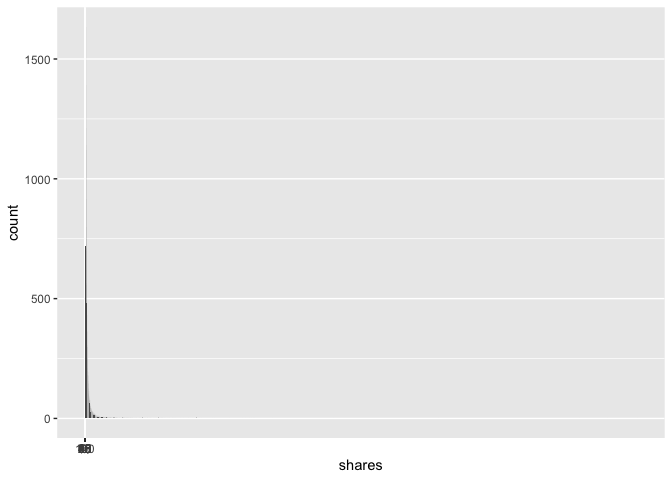
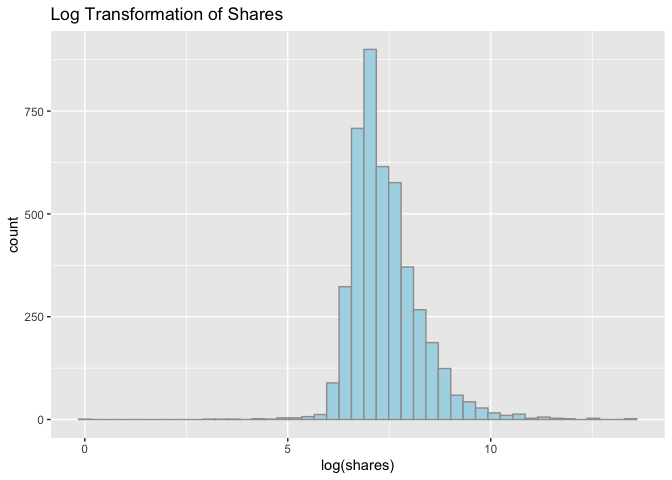
commit 10 - ADDED dayOfWeek variable

diff --git a/README.md b/README.md
@@ -201,7 +201,15 @@ newsData <- newsData %>% mutate(dataChannel =
                               ifelse(data_channel_is_lifestyle==1, "Lifestyle",
                               ifelse(data_channel_is_socmed==1, "Social Media",
                               ifelse(data_channel_is_tech==1, "Tech",
-                              ifelse(data_channel_is_world==1, "World", "Other")))))))
+                              ifelse(data_channel_is_world==1, "World", "Other"))))))) %>%
+                      mutate(dayOfWeek = 
+                               ifelse(weekday_is_monday==1, "Monday",
+                               ifelse(weekday_is_tuesday==1, "Tuesday",
+                               ifelse(weekday_is_wednesday==1, "Wednesday",
+                               ifelse(weekday_is_thursday==1, "Thursday",
+                               ifelse(weekday_is_friday==1, "Friday",
+                               ifelse(weekday_is_saturday==1, "Saturday",
+                               ifelse(weekday_is_sunday==1, "Sunday", "NULL"))))))))
 
 ## upon inspection, there are NA values present, this could be due to some articles not having
 ## one of these specific categories
@@ -274,6 +282,8 @@ newsTrain %>% summarise(avgShares = mean(shares), medianShares = median(shares),
 
 # Contingency Tables
 
+Ashlee
+
 # Plots
 
 This section is dedicated to visualization by means of the `ggplot2`
@@ -291,24 +301,12 @@ This is a histogram of the shares variable. We wanted to get a better
 idea of how this response variable is distributed.
 
 ``` r
-hist.shares <- ggplot(data = newsTrain, aes(x = shares))
-hist.shares + geom_histogram(bins = 50, binwidth = 40) + scale_x_continuous(breaks = seq(0, 100, 5))
+hist.shares <- ggplot(data = newsTrain, aes(x = log(shares)))
+hist.shares + geom_histogram(bins = 45, fill = "lightblue", colour = 8) +
+              ggtitle("Log Transformation of Shares")
 ```
 
-![](README_files/figure-gfm/unnamed-chunk-30-1.png)<!-- -->
-
-``` r
-hist99 <- ggplot(data = newsTrain, aes(x = shares))
-hist99 + geom_histogram(binwidth = 10)
-```
-
-![](README_files/figure-gfm/unnamed-chunk-30-2.png)<!-- -->
-
-``` r
-#hist(newsTrain$shares)
-#summary(newsTrain$shares)
-#hist(newsTrain$shares)
-```
+![](README_files/figure-gfm/unnamed-chunk-23-1.png)<!-- -->
 
 ## Plot 5 -
 
@@ -322,14 +320,14 @@ sp1 <- ggplot(data = newsTrain, aes(x = shares, y = num_imgs))
 sp1 + geom_point()
 ```
 
-![](README_files/figure-gfm/unnamed-chunk-31-1.png)<!-- -->
+![](README_files/figure-gfm/unnamed-chunk-24-1.png)<!-- -->
 
 ``` r
 sp2 <- ggplot(data = newsTrain, aes(x = shares, y = num_hrefs))
 sp2 + geom_point()
 ```
 
-![](README_files/figure-gfm/unnamed-chunk-31-2.png)<!-- -->
+![](README_files/figure-gfm/unnamed-chunk-24-2.png)<!-- -->
 
 ## Plot 6 -
 
